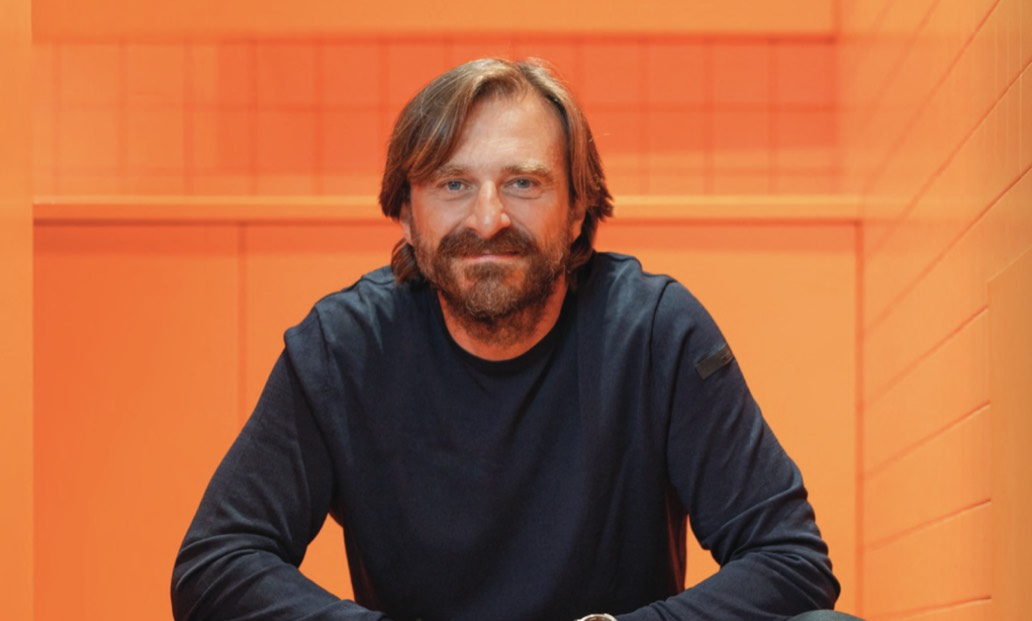
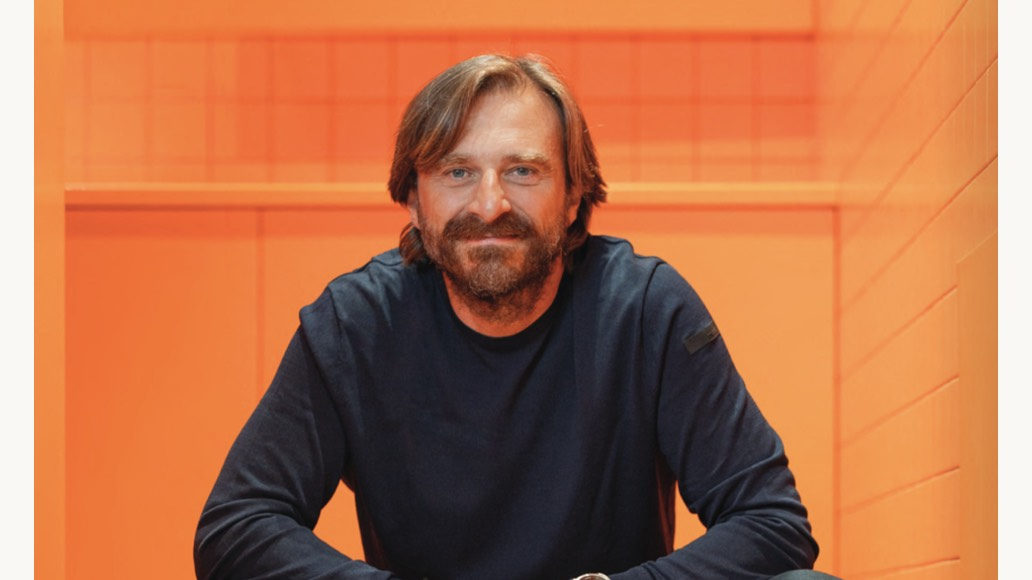
feat(report): 명제를 쉬운 말로, 사례를 2열로, 제목을 따로 받는다
리포트 첫 판을 받아 본 주인의 반응: "이게 뭐야? 무슨 내용인지 모르겠는 글."
문장은 이랬다 — "막힌 자리는 규칙이 아니라 지켜졌는지 확인하는 비용 쪽이었다."
통찰은 틀리지 않았는데 실제 이름이 하나도 없다. '막힌 자리', '선을 그은 문장',
'그 값을 치를 데가 없는 자리'가 전부 행위자 자리에 들어앉은 추상명사다. 한 번
읽고 모르면 통찰이 날카로워도 없는 것과 같다.

규칙을 판정 가능하게 바꿨다: 명제에 실제 이름이 최소 둘(회사·기관·나라·법·
제품·숫자), '자리/지점/영역/측면'으로 행위자를 대신하지 않기, 비유 금지,
ground 두 문장에 각각 구체적 사례. 판정법도 적었다 — 이번 주 뉴스를 하나도
안 본 사람에게 그 한 문장만 보여 줬을 때 무슨 일인지 짐작되면 통과다.
거부당한 문장을 나쁜 예로, 같은 통찰을 쉽게 쓴 문장을 좋은 예로 함께 넣었다.
설명보다 대조가 빠르다.

W40을 다시 쓰니 "대만의 선거 딥페이크법에는 삭제 요청이 한 건도 들어오지
않았고 NASA는 가려내는 일을 접고 AI 이미지를 아예 금지했다"가 됐다. 같은
통찰인데 읽힌다.

사례는 2열로 깐다. 메일에서 다단은 테이블이라야 버틴다 — Outlook 데스크톱은
Word 엔진이라 flex도 inline-block도 못 읽고 칸을 한 줄로 쏟는다. 무료
수신자는 사례가 하나뿐이라 쪼개지 않는다: 반쪽 칸에 가둔 한 장이 구독을
설득해야 하는 유일한 그림이다.

2열로 깔고 보니 그림 높이가 제각각이라 두 칸의 글줄이 어긋났다. 세로 이미지가
한 칸에 오면(카드 영상 포스터가 608x1080이다) 아예 깨져 보인다. 메일용 축소본을
1032x580으로 통일하되 잘라서 맞추지 않고 메일 배경색으로 여백을 채운다 —
도표의 축이나 라벨이 날아가면 안 된다. 이 메일의 그림은 장식이 아니라 근거다.

제목은 따로 받는다. 구체적으로 쓰라고 하면서 명제가 길어졌고(이름과 숫자가
자리를 먹는다) 받은메일함은 70자쯤만 보여 준다. 명제를 잘라 쓰면 문장 중간에서
끊긴 꼴이 되므로, 제목답게 다시 쓴 한 줄을 받는다. 잘릴 때도 단어 중간이 아니라
쉼표 자리에서 끊는다 — 절이 끝나는 자리가 가장 잘 읽힌다.

report_mail 19개, build_report 26개, JS 전체 157개 통과.

Claude-Session: https://claude.ai/code/session_01TYYxH4mRVed7tGNaMFwjoy

diff --git a/worker/lib/report_mail.js b/worker/lib/report_mail.js
@@ -39,24 +39,68 @@ const T = {
 
 const SUBJECT_MAX = 96;
 
+/* 잘라야 할 땐 글자 한가운데가 아니라 숨 쉬는 자리에서 끊는다 — 쉼표나 띄어쓰기.
+   한국어·일본어·중국어는 띄어쓰기가 드물거나 없어서 쉼표를 먼저 본다. 끊을 자리가
+   앞쪽에 너무 멀면 그냥 자른다: 반쪽짜리 제목보다 짧은 제목이 낫다. */
+function clip(s, max) {
+  if (s.length <= max) return s;
+  const head = s.slice(0, max - 1);
+  // 쉼표를 먼저 본다 — 절이 끝나는 자리가 가장 잘 읽힌다. 띄어쓰기는 차선이고,
+  // 둘 다 너무 앞이면 그냥 자른다: 반쪽짜리 제목보다 짧은 제목이 낫다.
+  const comma = Math.max(head.lastIndexOf(", "), head.lastIndexOf("，"),
+                         head.lastIndexOf("、"));
+  const space = head.lastIndexOf(" ");
+  const cut = comma > max * 0.45 ? comma : (space > max * 0.45 ? space : -1);
+  return (cut > 0 ? head.slice(0, cut) : head.trimEnd()) + "…";
+}
+
 /* 사례 하나 = 이미지 + 헤드라인 링크 + "이 사례가 명제의 어디를 떠받치는가" 한 줄.
    이미지를 못 구한 카드도 사례로 뽑힐 수 있으므로 <img>는 있을 때만 넣는다 —
-   빈 src는 클라이언트마다 깨진 아이콘을 다르게 그린다. */
-function evidenceBlock(e) {
+   빈 src는 클라이언트마다 깨진 아이콘을 다르게 그린다.
+
+   `w`는 이미지의 픽셀 폭이다. 2열일 때와 1열일 때가 다르고, width 속성과
+   max-width를 함께 줘야 한다: 속성만 있으면 좁은 화면에서 넘치고, max-width만
+   있으면 Outlook이 원본 크기로 늘린다. */
+function evidenceBlock(e, w) {
   const out = [];
   if (e.image) {
     out.push(`<a href="${esc(e.url)}" style="display:block;text-decoration:none">` +
-      `<img src="${esc(e.image)}" alt="" width="516" ` +
-      `style="display:block;width:100%;max-width:516px;height:auto;border:0;border-radius:12px"></a>`);
+      `<img src="${esc(e.image)}" alt="" width="${w}" ` +
+      `style="display:block;width:100%;max-width:${w}px;height:auto;border:0;border-radius:10px"></a>`);
   }
   if (e.section) {
-    out.push(`<div style="margin:12px 0 4px;font-size:11px;letter-spacing:.08em;` +
+    out.push(`<div style="margin:10px 0 4px;font-size:11px;letter-spacing:.08em;` +
       `text-transform:uppercase;color:#9a9284">${esc(e.section)}</div>`);
   }
-  out.push(`<div style="margin:0 0 6px;font-size:17px;line-height:1.4;font-weight:600">` +
+  out.push(`<div style="margin:0 0 6px;font-size:16px;line-height:1.4;font-weight:600">` +
     `<a href="${esc(e.url)}" style="color:#1c1a18;text-decoration:none">${esc(e.headline)}</a></div>`);
-  out.push(`<p style="margin:0;font-size:14px;line-height:1.65;color:#5f5953">${esc(e.role)}</p>`);
-  return `<div style="margin:0 0 30px">${out.join("")}</div>`;
+  out.push(`<p style="margin:0;font-size:13px;line-height:1.6;color:#5f5953">${esc(e.role)}</p>`);
+  return out.join("");
+}
+
+/* 사례를 2열로 깐다.
+
+   메일에서 다단은 테이블이라야 버틴다 — Outlook 데스크톱은 Word 엔진이라 flex도
+   inline-block도 못 읽고 칸을 한 줄로 쏟아 버린다. <style> 블록과 미디어 쿼리도
+   클라이언트마다 지워지므로, 좁은 화면에서 접히게 만들 수단이 없다. 그래서 칸 폭을
+   퍼센트로 두고 이미지가 같이 줄게 한다.
+
+   사례가 하나뿐이면(= 무료 수신자) 쪼개지 않는다. 한 장을 반쪽 칸에 가두면 작고
+   초라해지고, 그 한 장이 구독을 설득해야 하는 유일한 그림이다. */
+function evidenceGrid(list) {
+  if (list.length === 1) {
+    return `<div style="margin:0 0 28px">${evidenceBlock(list[0], 516)}</div>`;
+  }
+  const rows = [];
+  for (let i = 0; i < list.length; i += 2) {
+    const pair = [list[i], list[i + 1]];
+    const cells = pair.map((e, j) =>
+      `<td width="50%" valign="top" style="width:50%;padding:0 ${j === 0 ? "10px 28px 0" : "0 28px 10px"}">` +
+      (e ? evidenceBlock(e, 248) : "") + `</td>`).join("");
+    rows.push(`<tr>${cells}</tr>`);
+  }
+  return `<table role="presentation" width="100%" cellpadding="0" cellspacing="0" border="0" ` +
+    `style="width:100%;border-collapse:collapse">${rows.join("")}</table>`;
 }
 
 export function renderReport({ edition, lang, blocks, entitled, unsubUrl }) {
@@ -80,7 +124,7 @@ export function renderReport({ edition, lang, blocks, entitled, unsubUrl }) {
   if (shown.length) {
     out.push(`<div style="margin:34px 0 18px;padding-top:18px;border-top:1px solid #e3dccf;` +
       `font-size:12px;letter-spacing:.06em;color:#9a9284">${esc(t.cases)}</div>`);
-    for (const e of shown) out.push(evidenceBlock(e));
+    out.push(evidenceGrid(shown));
   }
   if (held > 0) {
     out.push(`<p style="margin:0;padding:16px 18px;border-radius:12px;background:#f1ece4;` +
@@ -97,9 +141,9 @@ ${out.join("")}
 <p style="margin:0;font-size:12px"><a href="${esc(unsubUrl)}" style="color:#8a8377">${esc(t.unsub)}</a></p>
 </div></body></html>`;
 
-  // 제목은 판본 번호가 아니라 명제다 — 받은메일함에서 열어 볼 이유가 거기 있다.
-  const thesis = String(b.thesis || "").trim();
-  let subject = `${t.prefix} · ${thesis}`;
-  if (subject.length > SUBJECT_MAX) subject = subject.slice(0, SUBJECT_MAX - 1).trimEnd() + "…";
-  return { subject, html };
+  /* 제목은 판본 번호가 아니라 그 주의 요점이다 — 받은메일함에서 열어 볼 이유가
+     거기 있다. 명제를 구체적으로 쓰라고 하면서 길어졌으므로(이름과 숫자가 자리를
+     먹는다) 제목용 짧은 줄을 따로 받고, 없으면 명제로 떨어진다. */
+  const line = String(b.subject || b.thesis || "").trim();
+  return { subject: clip(`${t.prefix} · ${line}`, SUBJECT_MAX), html };
 }

diff --git a/worker/test/report_mail.test.js b/worker/test/report_mail.test.js
@@ -33,10 +33,61 @@ describe("renderReport", () => {
     expect(html.indexOf("모델에 들어가는")).toBeLessThan(html.indexOf("항소법원"));
   });
 
-  // 제목은 판본 번호가 아니라 명제다. 받은메일함에서 열어 볼 이유가 거기 있다.
-  it("메일 제목이 명제를 담는다", () => {
+  /* 제목은 판본 번호가 아니라 그 주의 요점이다 — 받은메일함에서 열어 볼 이유가
+     거기 있다. 다만 명제는 구체적으로 쓰라고 했더니 길어졌고(이름과 숫자가 자리를
+     먹는다), 받은메일함은 70자쯤만 보여 준다. 그래서 제목용 짧은 줄을 따로 받는다. */
+  it("제목용 줄이 있으면 그걸 쓴다", () => {
+    const { subject } = renderReport({ ...base, entitled: true,
+      blocks: { ...BLOCKS, subject: "값이 붙기 시작한 학습 데이터" } });
+    expect(subject).toContain("값이 붙기 시작한 학습 데이터");
+    expect(subject).not.toContain("모델에 들어가는");
+  });
+
+  it("제목용 줄이 없으면 명제로 떨어진다", () => {
     const { subject } = renderReport({ ...base, entitled: true });
     expect(subject).toContain("모델에 들어가는 재료에 값이 붙기 시작했다");
+  });
+
+  /* 잘릴 땐 단어 한가운데가 아니라 숨 쉬는 자리에서 끊는다. 한국어 문장은 어차피
+     한글로 끝나므로 '한글 뒤에 말줄임'은 정상이다 — 검사할 것은 끊은 자리가 원문의
+     경계냐는 것이다. 쉼표가 있으면 쉼표를 고른다: 절이 끝나는 자리가 가장 잘 읽힌다. */
+  it("긴 제목은 단어 중간이 아니라 경계에서 끊는다", () => {
+    const long = "이번 주에도 AI 규칙은 늘었지만 지켰는지 확인하는 데 돈을 쓰는 곳이 없어서, "
+      + "대만의 선거 딥페이크법에는 삭제 요청이 한 건도 들어오지 않았고 NASA는 금지했다";
+    const { subject } = renderReport({ ...base, entitled: true,
+      blocks: { ...BLOCKS, thesis: long } });
+    expect(subject.length).toBeLessThanOrEqual(96);
+    expect(subject.endsWith("…")).toBe(true);
+    const body = subject.slice(0, -1);                 // 말줄임을 떼면
+    const full = `주간 인사이트 · ${long}`;
+    expect(full.startsWith(body)).toBe(true);          // 원문의 앞부분이고
+    expect(full[body.length]).toMatch(/[ ,，、]/);      // 끊은 자리가 경계다
+    expect(subject).toContain("돈을 쓰는 곳이 없어서");  // 첫 절은 온전히 남는다
+  });
+
+  /* 사례는 2열로 깐다. 메일에서 2열은 테이블이라야 버틴다 — Outlook 데스크톱은
+     Word 엔진이라 flex도 inline-block도 못 읽고 한 줄로 쏟아 버린다. */
+  it("사례를 2열 테이블로 깐다", () => {
+    const { html } = renderReport({ ...base, entitled: true });
+    const rows = html.match(/<tr\b/g) || [];
+    const cells = html.match(/<td\b/g) || [];
+    expect(rows.length).toBe(2);      // 사례 3건 -> 2행
+    expect(cells.length).toBe(4);     // 마지막 칸은 빈 칸
+  });
+
+  it("사례가 넷이면 2행 4칸이 꽉 찬다", () => {
+    const four = [...BLOCKS.evidence, { ...BLOCKS.evidence[0], headline: "네번째" }];
+    const { html } = renderReport({ ...base, entitled: true,
+      blocks: { ...BLOCKS, evidence: four } });
+    expect((html.match(/<tr\b/g) || []).length).toBe(2);
+    expect(html).toContain("네번째");
+  });
+
+  // 무료 수신자는 사례가 하나뿐이다. 그 한 장을 반쪽 칸에 가두면 작고 초라해진다.
+  it("사례가 하나뿐이면 2열로 쪼개지 않는다", () => {
+    const { html } = renderReport({ ...base, entitled: false });
+    expect(html).not.toMatch(/<table\b/);
+    expect(html).toContain("항소법원, 톰슨 로이터 승소 유지");
   });
 
   it("Pro는 사례 전부를 이미지와 함께 받는다", () => {

diff --git a/pipeline/build_report.py b/pipeline/build_report.py
@@ -107,7 +107,9 @@ def card_link(base, lang, section, card_id):
 MAILABLE_IMG = (".jpg", ".jpeg", ".png", ".gif")
 MAIL_DIR = "mail"
 MAIL_WIDTH = 1032          # 메일 본문 표시 폭 516px의 2배 — 고해상도 화면까지 커버한다
+MAIL_HEIGHT = 580          # 16:9. 2열에서 두 칸의 그림 높이가 같아야 글줄이 맞는다
 MAIL_QUALITY = "70"
+MAIL_PAD = "FBF8F3"        # 메일 본문 배경색 — 여백이 배경에 녹아 보이지 않는다
 
 
 def mail_rel(rel):
@@ -132,6 +134,14 @@ def mail_image(base, rel):
     return f"{base.rstrip('/')}/{mail_rel(rel).lstrip('/')}"
 
 
+def _dims(path):
+    """sips가 읽어 준 원본 픽셀 크기."""
+    out = subprocess.run(["sips", "-g", "pixelWidth", "-g", "pixelHeight", path],
+                         check=True, capture_output=True, text=True).stdout
+    d = dict(l.strip().split(": ") for l in out.splitlines() if ": " in l)
+    return int(d["pixelWidth"]), int(d["pixelHeight"])
+
+
 def ensure_mail_image(rel, root=None):
     """메일용 축소본을 굽는다. 이미 있으면 그대로 두고 True.
 
@@ -146,12 +156,18 @@ def ensure_mail_image(rel, root=None):
         return True
     os.makedirs(os.path.dirname(out), exist_ok=True)
     try:
-        # -Z는 긴 변만 보고 줄인다. 원본이 더 작으면 sips는 키우지 않는다.
+        w, h = _dims(src)
+        # 상자 안에 통째로 들어가게 줄인 뒤 배경색으로 여백을 채운다. 잘라서 맞추면
+        # 도표의 축이나 라벨이 날아간다 — 이 메일의 그림은 장식이 아니라 근거다.
+        k = min(MAIL_WIDTH / w, MAIL_HEIGHT / h, 1.0)
         subprocess.run(["sips", "-s", "format", "jpeg",
                         "-s", "formatOptions", MAIL_QUALITY,
-                        "-Z", str(MAIL_WIDTH), src, "--out", out],
+                        "-z", str(max(1, round(h * k))), str(max(1, round(w * k))),
+                        "--padToHeightWidth", str(MAIL_HEIGHT), str(MAIL_WIDTH),
+                        "--padColor", MAIL_PAD,
+                        src, "--out", out],
                        check=True, capture_output=True)
-    except (OSError, subprocess.CalledProcessError):
+    except (OSError, ValueError, ZeroDivisionError, subprocess.CalledProcessError):
         if os.path.exists(out):
             os.remove(out)
         return False
@@ -210,6 +226,7 @@ def build_prompts(edition, archive=None, graph=None, base_url="https://axitnow.c
         "clusters": [{**c, "cards": [brief(i) for i in c["ids"]]} for c in clusters],
         "langs": LANGS,
         "answer_shape": {
+            "subject": "메일 제목용 한 줄. 25자 안쪽.",
             "thesis": "한 문장. 섹션들을 관통하는 명제.",
             "ground": "두 문장. 그 명제가 왜 이번 주에 성립하는지에 대한 논거.",
             "evidence": [{"card": "<섹션>/<카드 id>", "role": "한 문장."}],
@@ -219,6 +236,33 @@ def build_prompts(edition, archive=None, graph=None, base_url="https://axitnow.c
             # 하는 일이고, 메일이 그걸 반복하면 따로 받을 이유가 없다.
             "섹션별 요약을 쓰지 않는다. 한 주의 카드를 전부 읽은 사람에게만 보이는 관통선 하나를 명제로 쓴다.",
             "명제는 뉴스 한 건으로는 못 하는 말이어야 한다. 한 사건을 바꿔 말한 문장이면 버리고 다시 쓴다.",
+
+            # 여기부터가 '읽히는 글'을 만드는 규칙이다. W40 첫 판이 추상명사로만
+            # 돌아가서 무슨 말인지 모르겠다는 지적을 받았다. 통찰이 날카로워도
+            # 한 번 읽고 모르면 없는 것과 같다.
+            "쉬운 말로 쓴다. 한 번 읽고 바로 알아야 한다. 두 번 읽어야 하면 틀린 문장이다.",
+            "명제에 실제 이름이 최소 둘 들어간다 — 회사, 기관, 나라, 법, 제품, 숫자 중에서. "
+            "추상명사로만 이루어진 문장은 버린다.",
+            "'자리', '지점', '영역', '측면', '부분' 같은 말로 행위자를 대신하지 않는다. "
+            "누가 무엇을 했는지 주어와 동사로 쓴다.",
+            "비유를 쓰지 않는다. '선을 긋다', '벽에 부딪히다', '값을 치르다' 같은 표현은 "
+            "그 자리에서 실제로 일어난 일로 바꿔 쓴다.",
+            "판정법: 이번 주 뉴스를 하나도 안 본 사람에게 이 한 문장만 보여 줬을 때 "
+            "무슨 일이 있었는지 짐작되면 통과, 되묻게 되면 탈락이다.",
+            # 같은 통찰을 두 가지로 써 보인다. 설명보다 대조가 빠르다.
+            "나쁜 예: '이번 주 AI 규칙은 또 늘었는데, 막힌 자리는 규칙이 아니라 지켜졌는지 "
+            "확인하는 비용 쪽이었다.' — 실제 이름이 하나도 없고 '막힌 자리'가 무엇인지 모른다.",
+            "좋은 예: 'AI 규칙은 계속 생기는데 지켰는지 확인할 돈을 아무도 안 낸다. 대만의 "
+            "딥페이크법은 삭제 요청 0건으로 남았고, NASA는 확인 대신 AI 이미지를 통째로 "
+            "금지했다.' — 같은 통찰인데 나라, 법, 기관, 숫자가 들어가 바로 읽힌다.",
+            "ground 두 문장에도 각각 구체적인 사례가 최소 하나씩 들어간다. 사례 없이 "
+            "원리만 설명하는 문장은 쓰지 않는다.",
+            # 명제를 구체적으로 쓰면 길어진다 — 이름과 숫자가 자리를 먹는다. 받은메일함은
+            # 70자쯤만 보여 주므로 제목은 따로 받는다.
+            "subject는 받은메일함에 뜨는 한 줄이다. 25자 안쪽으로, 명제를 줄인 게 아니라 "
+            "그 주의 요점을 제목답게 다시 쓴 문장이어야 한다. 마침표를 찍지 않는다.",
+            "subject에도 실제 이름이 하나는 들어간다. '이번 주의 AI' 같은 제목은 열 이유가 "
+            "되지 않는다.",
             "명제는 서로 다른 섹션 최소 3곳의 카드로 떠받쳐져야 한다. 한 섹션 안에서만 성립하면 그건 그 섹션의 뉴스다.",
             "'AI가 모든 것을 바꾼다' 같은 언제나 참인 문장은 명제가 아니다. 이번 주에 새로 참이 된 것만 쓴다.",
             "근거 카드가 없는 주장은 쓰지 않는다. 추측 금지.",
@@ -272,6 +316,7 @@ def apply_answers(edition, answers, out_root=None, base_url="https://axitnow.com
                 "role": item.get("role", ""),
             })
         json.dump({"edition": edition, "lang": lang,
+                   "subject": a.get("subject", ""),
                    "thesis": a.get("thesis", ""), "ground": a.get("ground", ""),
                    "evidence": evidence},
                   open(os.path.join(root, f"{lang}.json"), "w", encoding="utf-8"),

diff --git a/pipeline/build_report_test.py b/pipeline/build_report_test.py
@@ -153,6 +153,31 @@ def test_unmailable_formats_still_yield_nothing():
     assert mail_image("https://x", None) == ""
 
 
+# 2열에서는 두 칸의 그림 높이가 다르면 글줄이 어긋난다. 세로 이미지가 한 칸에
+# 오면(카드 영상 포스터가 608x1080이다) 아예 깨져 보인다. 원본을 자르지 않고
+# 메일 배경색으로 여백을 채워 같은 상자에 넣는다 — 도표의 라벨이 잘리면 안 된다.
+def test_derivative_has_a_fixed_aspect_ratio():
+    import subprocess, tempfile, shutil
+    from build_report import ensure_mail_image, MAIL_WIDTH, MAIL_HEIGHT
+    if not shutil.which("sips"):
+        return
+    with tempfile.TemporaryDirectory() as root:
+        media = os.path.join(root, "pipeline", "media")
+        os.makedirs(media)
+        src = "/System/Library/CoreServices/DefaultDesktop.heic"
+        for name, (w, h) in (("wide.png", (2000, 800)), ("tall.png", (600, 1200))):
+            dst = os.path.join(media, name)
+            subprocess.run(["sips", "-s", "format", "png", "-z", str(h), str(w),
+                            src, "--out", dst], check=True, capture_output=True)
+            assert ensure_mail_image(f"pipeline/media/{name}", root=root), name
+            out = os.path.join(media, "mail", name.replace(".png", ".jpg"))
+            g = subprocess.run(["sips", "-g", "pixelWidth", "-g", "pixelHeight", out],
+                               check=True, capture_output=True, text=True).stdout
+            got = dict(l.strip().split(": ") for l in g.splitlines() if ": " in l)
+            assert int(got["pixelWidth"]) == MAIL_WIDTH, (name, got)
+            assert int(got["pixelHeight"]) == MAIL_HEIGHT, (name, got)
+
+
 def test_derivative_is_built_and_is_smaller():
     """실제로 구워 보고 작아졌는지 본다 — 경로만 맞고 파일이 없으면 메일에 깨진
     그림 자리가 남는다. 원본보다 크면 굽는 의미가 없다."""
